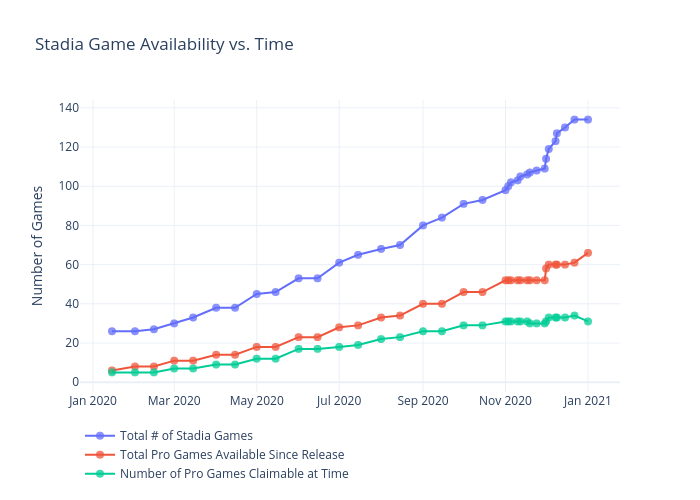
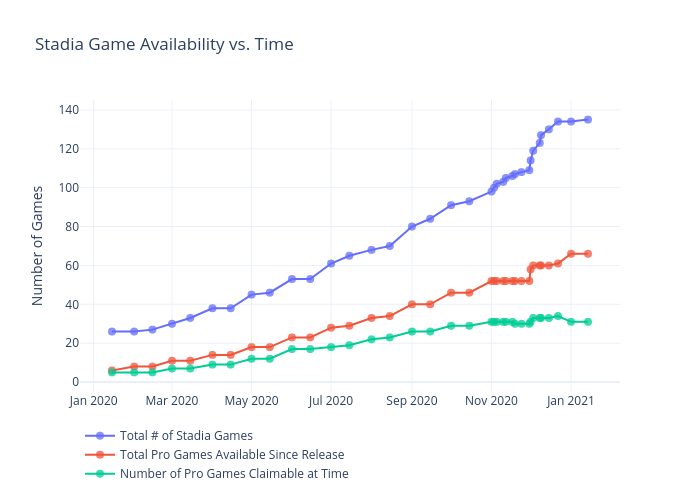
Add files via upload

diff --git a/games/figure.js b/games/figure.js
@@ -47,7 +47,8 @@ var figure = {
                 "2020-12-09",
                 "2020-12-15",
                 "2020-12-22",
-                "2021-01-01"
+                "2021-01-01",
+                "2021-01-14"
             ],
             "ysrc": "jdeslip:358:e03fe9",
             "y": [
@@ -86,7 +87,8 @@ var figure = {
                 "127",
                 "130",
                 "134",
-                "134"
+                "134",
+                "135"
             ],
             "marker": {
                 "size": 8,
@@ -143,7 +145,8 @@ var figure = {
                 "2020-12-09",
                 "2020-12-15",
                 "2020-12-22",
-                "2021-01-01"
+                "2021-01-01",
+                "2021-01-14"
             ],
             "ysrc": "jdeslip:358:5f7e72",
             "y": [
@@ -182,6 +185,7 @@ var figure = {
                 "60",
                 "60",
                 "61",
+                "66",
                 "66"
             ],
             "marker": {
@@ -239,7 +243,8 @@ var figure = {
                 "2020-12-09",
                 "2020-12-15",
                 "2020-12-22",
-                "2021-01-01"
+                "2021-01-01",
+                "2021-01-14"
             ],
             "ysrc": "jdeslip:358:81d550",
             "y": [
@@ -278,6 +283,7 @@ var figure = {
                 "33",
                 "33",
                 "34",
+                "31",
                 "31"
             ],
             "marker": {
@@ -296,8 +302,8 @@ var figure = {
         "xaxis": {
             "type": "date",
             "range": [
-                "2019-12-24 05:39:52.5466",
-                "2021-01-22 18:20:07.4534"
+                "2019-12-23 10:22:25.6804",
+                "2021-02-05 13:37:34.3196"
             ],
             "title": {
                 "text": ""
@@ -307,8 +313,8 @@ var figure = {
         "yaxis": {
             "type": "linear",
             "range": [
-                -4.235565819861433,
-                143.23556581986142
+                -4.30715935334873,
+                144.30715935334874
             ],
             "title": {
                 "text": "Number of Games"
